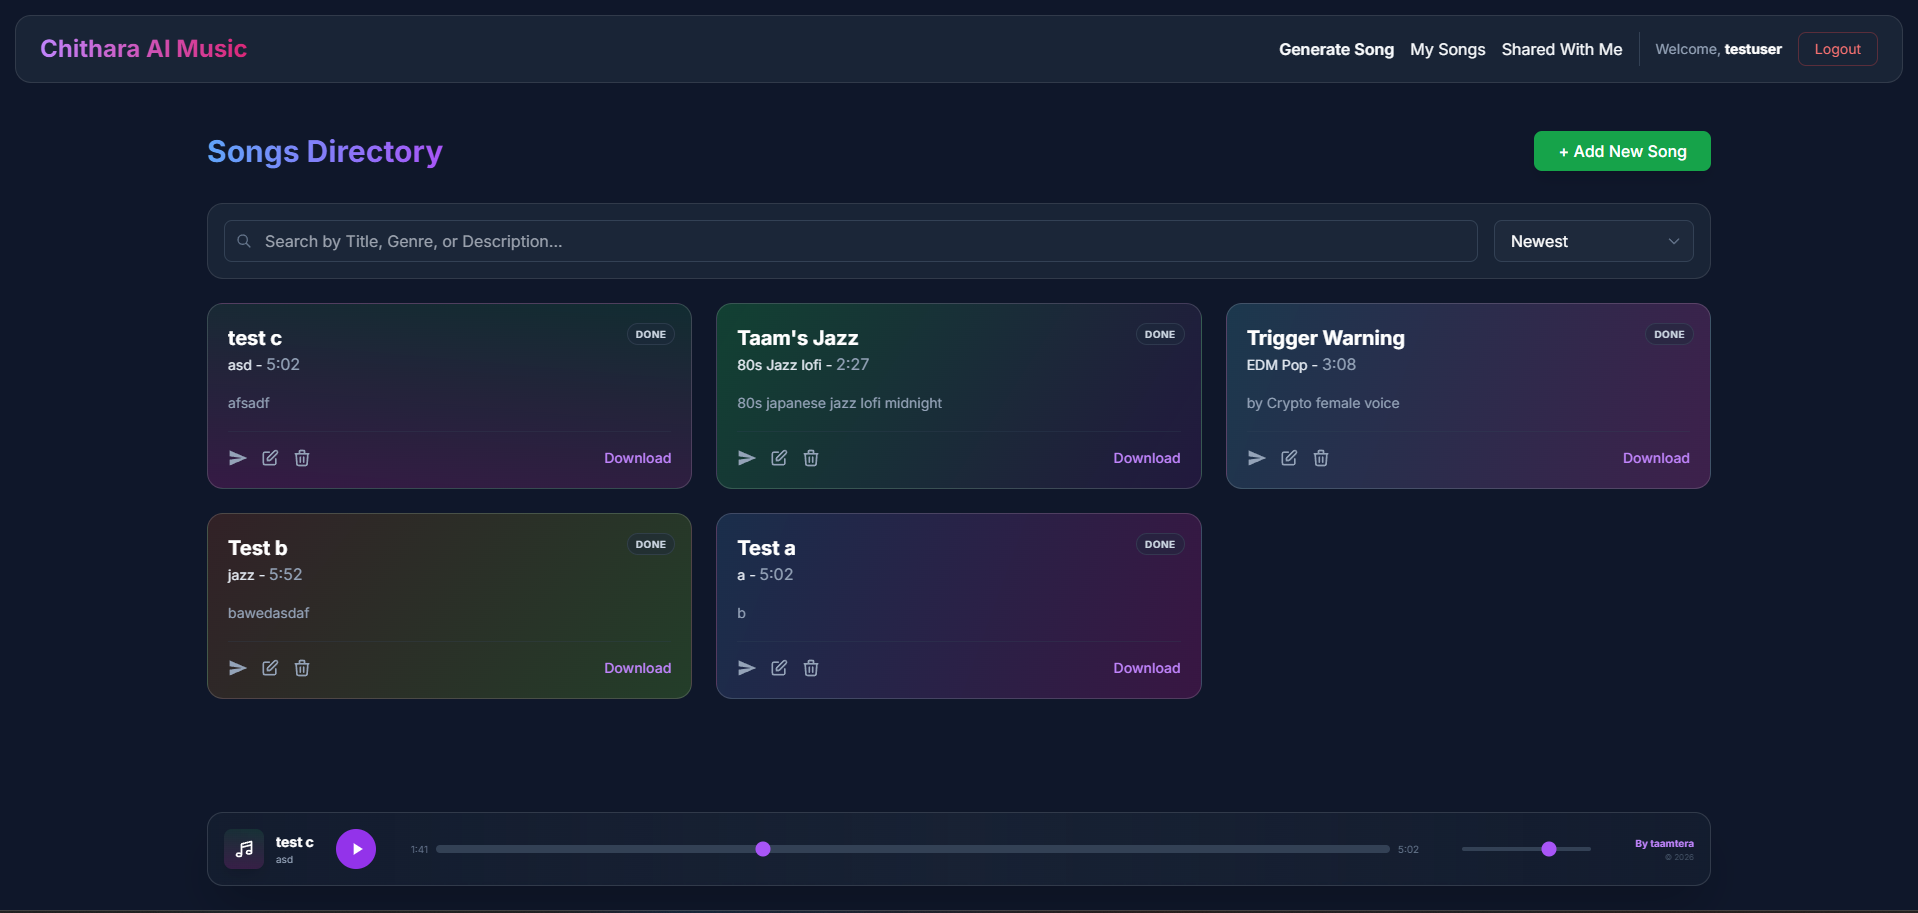
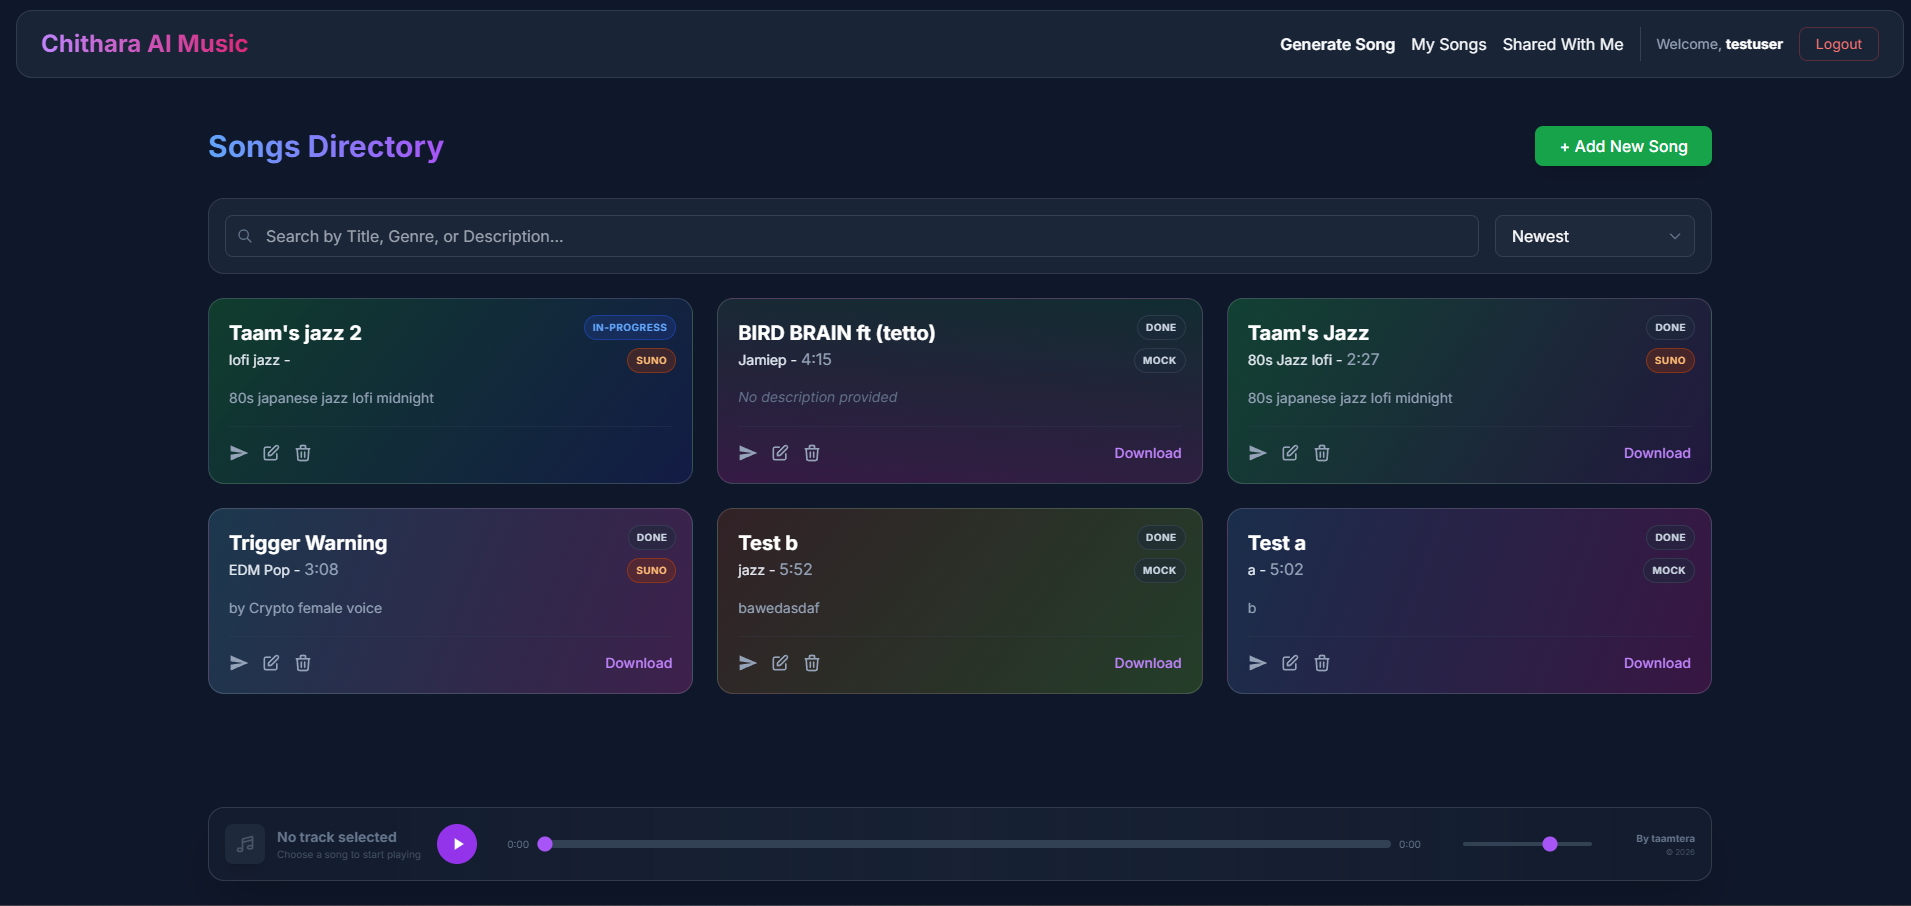
change to suno v5 and added lable for mock and stub and prettify image

diff --git a/frontend/templates/songs/partials/song_list.html b/frontend/templates/songs/partials/song_list.html
@@ -3,12 +3,17 @@
     <div id="song-card-{{ forloop.counter }}" data-song-seed="{{ song.pk }}" class="glass-panel song-card js-seeded-gradient p-5 group hover:border-purple-500/50 transition-all duration-300 relative overflow-hidden flex flex-col {% if song.audio_url or song.audio_file %}cursor-pointer hover:bg-slate-800/50{% endif %}"
          {% if song.audio_url or song.audio_file %}onclick="playSong('{% if song.audio_file %}{{ song.audio_file.url }}{% else %}{{ song.audio_url }}{% endif %}', '{{ song.title|escapejs }}', '{{ song.genre|escapejs }}', 'song-card-{{ forloop.counter }}')"{% endif %}>
 
-        <div class="absolute top-4 right-4">
+        <div class="absolute top-4 right-4 flex flex-col items-end gap-2">
             <span class="px-2 py-1 rounded-full text-[10px] uppercase tracking-wider font-bold
                 {% if song.gen_status == 'done' %}bg-slate-800/50 text-slate-300 border border-slate-600/40
                 {% elif song.gen_status == 'failed' %}bg-red-900/40 text-red-400 border border-red-700/50
                 {% else %}bg-blue-900/40 text-blue-400 border border-blue-700/50{% endif %}">
                 {{ song.gen_status }}
+            </span>
+            <span class="px-2 py-1 rounded-full text-[10px] uppercase tracking-wider font-bold
+                {% if song.generation_method == 'suno' %}bg-orange-900/40 text-orange-300 border border-orange-700/50
+                {% else %}bg-slate-800/50 text-slate-300 border border-slate-600/40{% endif %}">
+                {{ song.generation_method }}
             </span>
         </div>
 

diff --git a/frontend/views/songs.py b/frontend/views/songs.py
@@ -139,9 +139,9 @@ class SongCreateView(LandingLoginRequiredMixin, CreateView):
                 callback_url = callback_url.replace('http://', 'https://')
         
         payload = {
-            "customMode": True,
+            "customMode": False,
             "instrumental": False,
-            "model": "V4_5ALL",
+            "model": "V5",
             "prompt": song.description or "A music track",
             "style": song.genre,
             "title": song.title,
